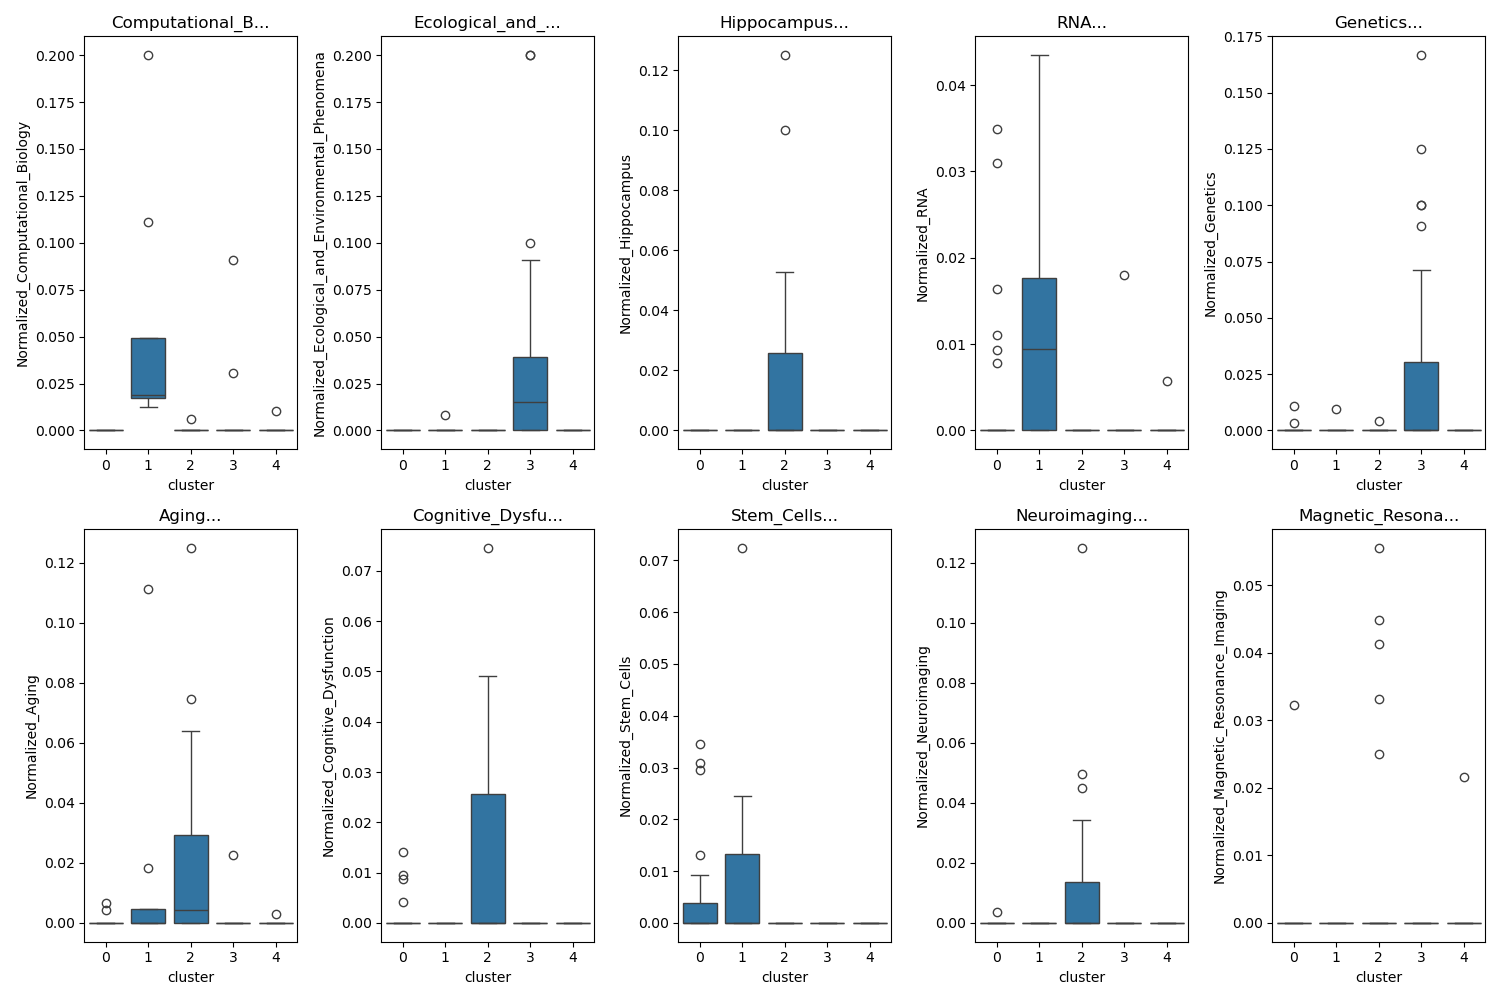
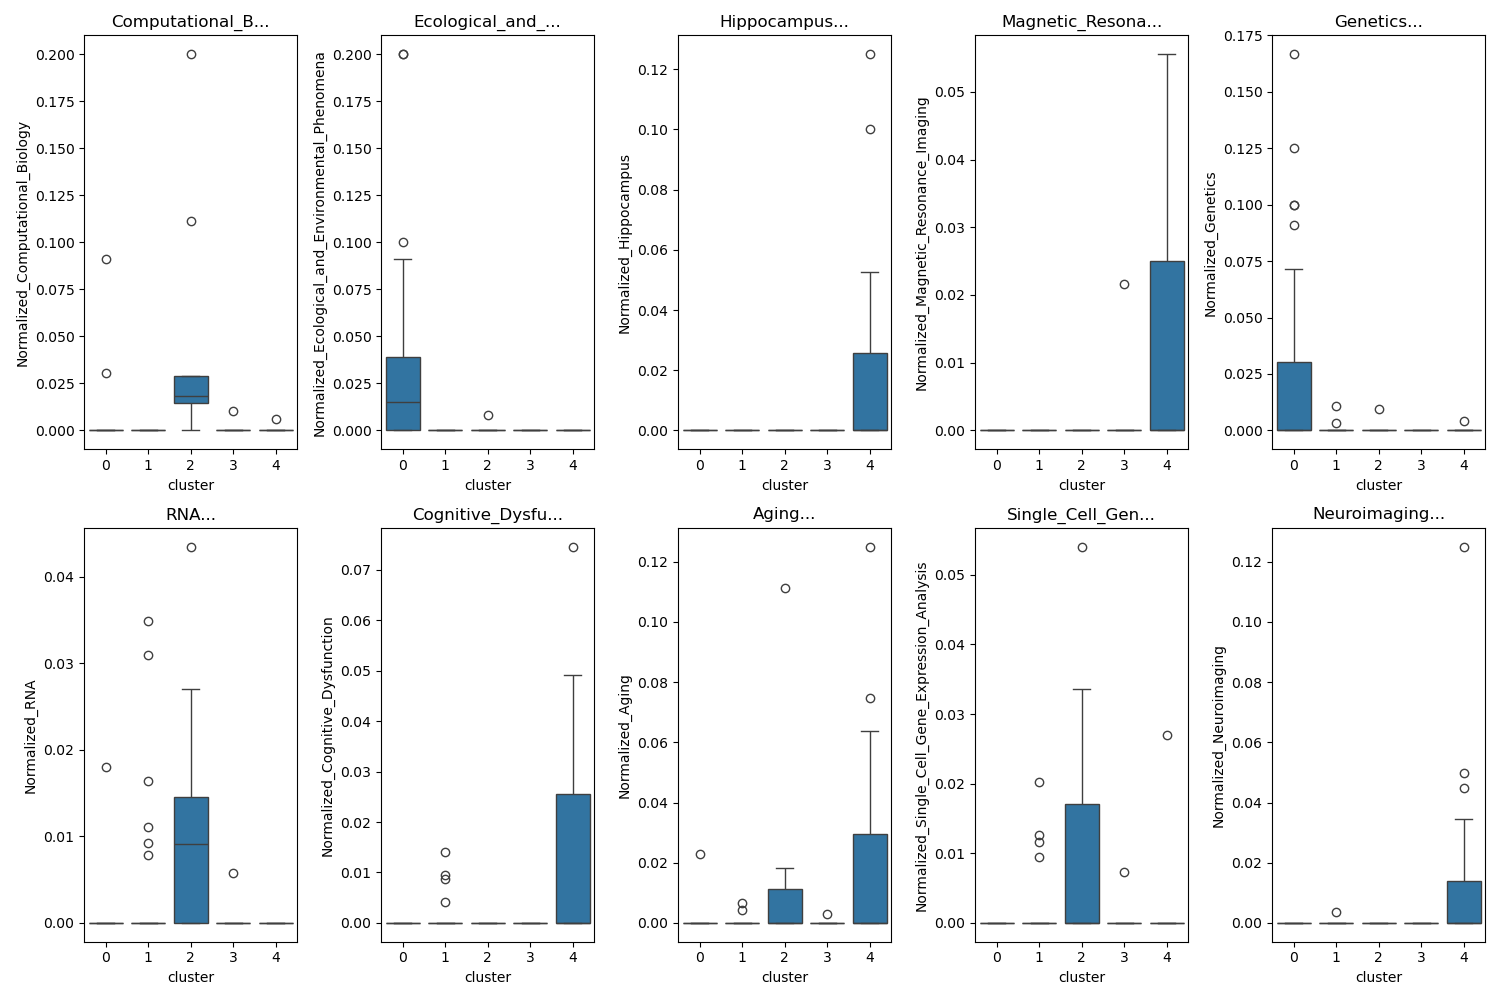
added additional analysis for keyword similarity

diff --git a/clustering_analyses.py b/clustering_analyses.py
@@ -89,7 +89,7 @@ fig = px.scatter(umap_embeddings_df, x="V1", y="V2", title="UMAP", hover_name="F
 fig_show(fig)
 
 # Run an elbow plot
-## We will need to code this. An elbow plot gives a rough value for the number of components to run UMAP on. Then, we will plug this number (where the elbow bends) into the num_components parameter in UMAP.
+## An elbow plot gives a rough value for the number of components to run UMAP on. Then, we will plug this number (where the elbow bends) into the num_components parameter in UMAP.
 numeric_data_umap = umap_embeddings_df.select_dtypes(include=['number'])
 scaler = StandardScaler()
 scaled_data_umap = scaler.fit_transform(numeric_data_umap)
@@ -111,7 +111,7 @@ plt.show()
 # Run UMAP with PCA components
 # UMAP takes into account different dimensions and represnts the information in 2D. If you want smaller and more refined clusters, then use more components. But the starting number of components is usually based on the elbow plot.
 pca_result = PCA().fit_transform(feature_matrix)
-num_components = 3
+num_components = 2
 pca_reduced_features = pca_result[:, :num_components]
 umap_result = UMAP().fit_transform(pca_reduced_features)
 umap_df_pca = pd.DataFrame(umap_result, columns=["V1", "V2"])
@@ -355,6 +355,52 @@ def plot_top_features(cluster_feature_matrix, significant_features_df, top_n=10)
 # If there are significant features, plot them
 if len(significant_features_df) > 0:
     plot_top_features(cluster_feature_matrix, significant_features_df)
+
+# ADD NEW CODE BLOCK #3 HERE - Calculate Within-Cluster Similarity
+# Calculate average similarity within each cluster
+within_cluster_similarity = {}
+for cluster_id in cluster_feature_matrix['cluster'].unique():
+    # Get data for this cluster
+    cluster_data = cluster_feature_matrix[cluster_feature_matrix['cluster'] == cluster_id][feature_names]
+    
+    # Skip if only one member in cluster
+    if len(cluster_data) <= 1:
+        within_cluster_similarity[cluster_id] = float('nan')
+        continue
+        
+    # Calculate pairwise cosine similarities
+    from sklearn.metrics.pairwise import cosine_similarity
+    similarities = cosine_similarity(cluster_data)
+    
+    # Average similarity (excluding self-similarity on diagonal)
+    n = similarities.shape[0]
+    total_sim = similarities.sum() - n  # Subtract diagonal (self-similarities)
+    avg_sim = total_sim / (n * (n - 1))  # n(n-1) pairs
+    
+    within_cluster_similarity[cluster_id] = avg_sim
+
+# Create DataFrame and save
+similarity_df = pd.DataFrame.from_dict(within_cluster_similarity, 
+                                      orient='index', 
+                                      columns=['Average_Similarity'])
+similarity_df.to_csv("Within_cluster_similarity.csv")
+
+# ADD NEW CODE BLOCK #4 HERE - Visualize Cluster Profiles
+# Create a heatmap of top terms across clusters
+top_n = 20  # Number of top terms to include (adjust as needed)
+significant_terms = significant_features_df['Feature'].head(top_n).tolist()
+
+# Calculate cluster means for these terms
+cluster_profiles = cluster_feature_matrix.groupby('cluster')[significant_terms].mean()
+
+# Plot heatmap
+plt.figure(figsize=(10, 14))  # Tall figure
+# Transpose the dataframe so terms are rows
+sns.heatmap(cluster_profiles.T, cmap="YlGnBu", annot=False)
+plt.title("Cluster Profiles: Top Significant Terms")
+plt.tight_layout()
+plt.savefig("Cluster_profiles_transposed.png", dpi=300, bbox_inches='tight')
+plt.show()
 
 filtered_data_df.columns = filtered_data_df.columns.str.replace(' ', '_').str.replace(',', '_').str.replace('-', '_')
 feature_names = filtered_data_df.columns[:-1]
